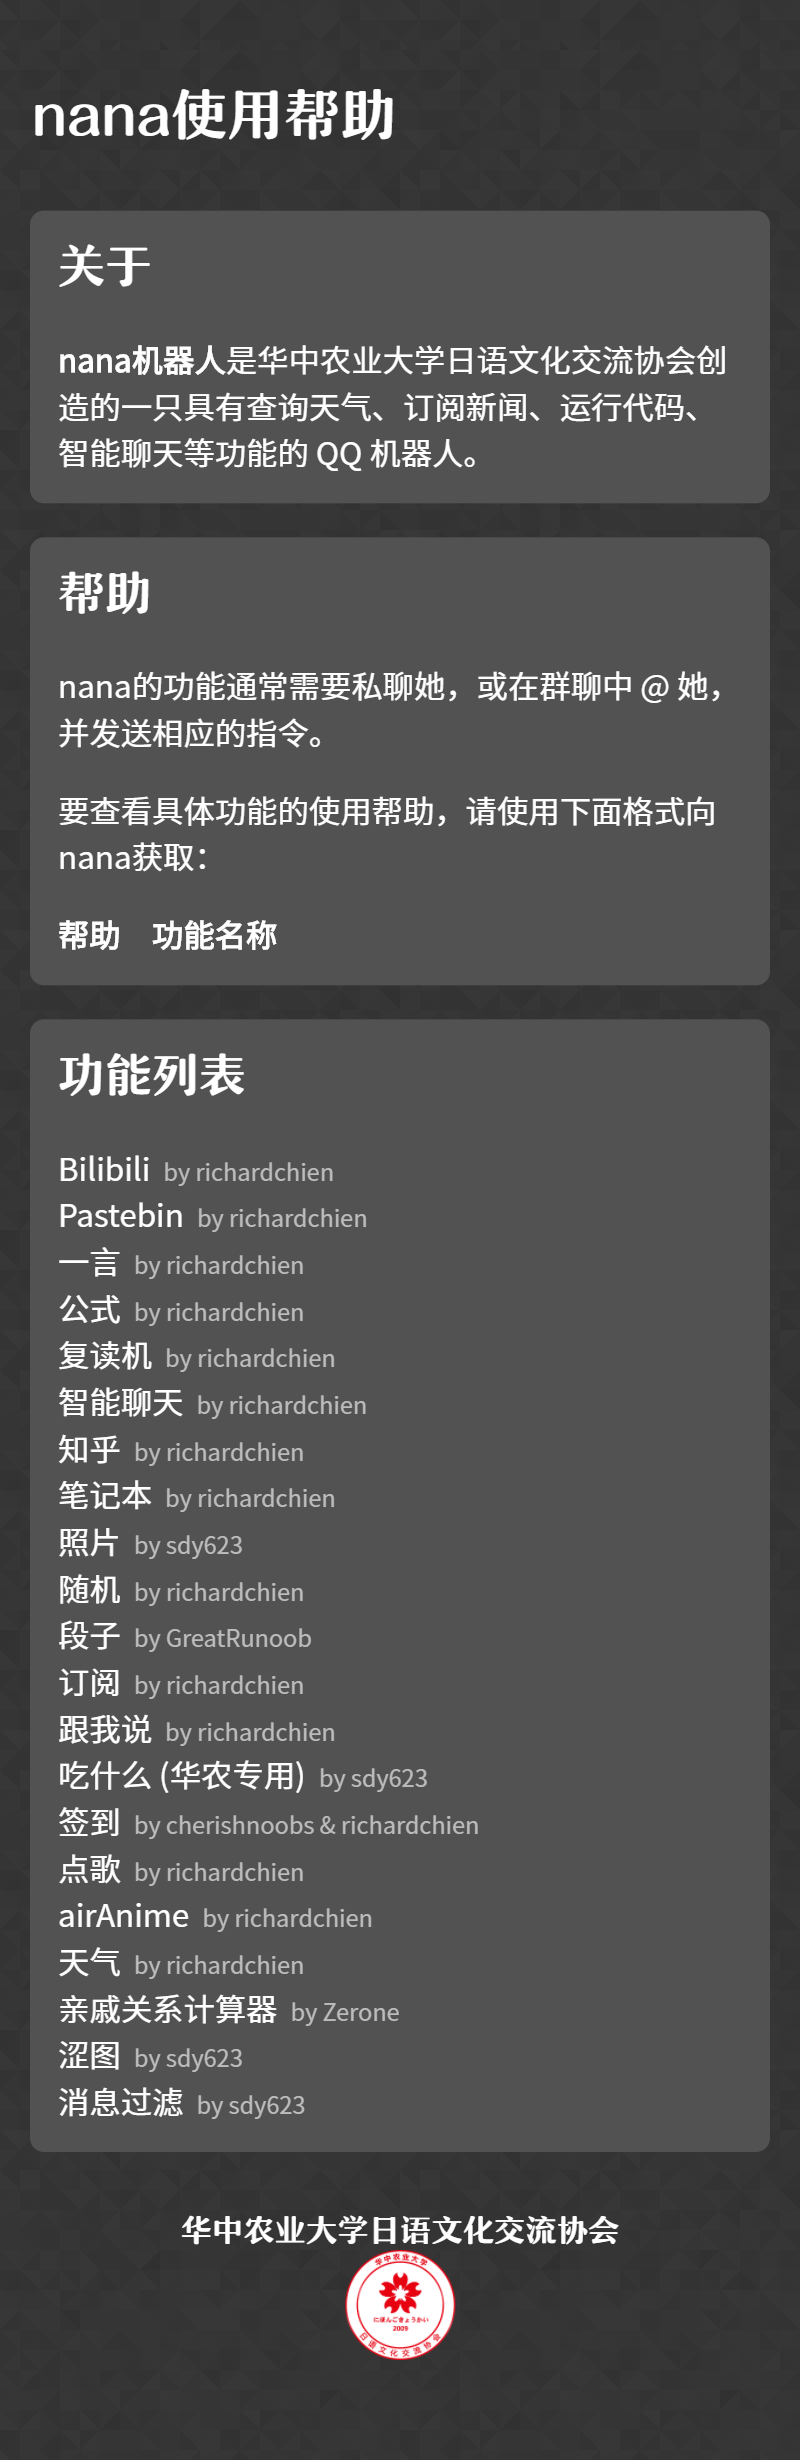
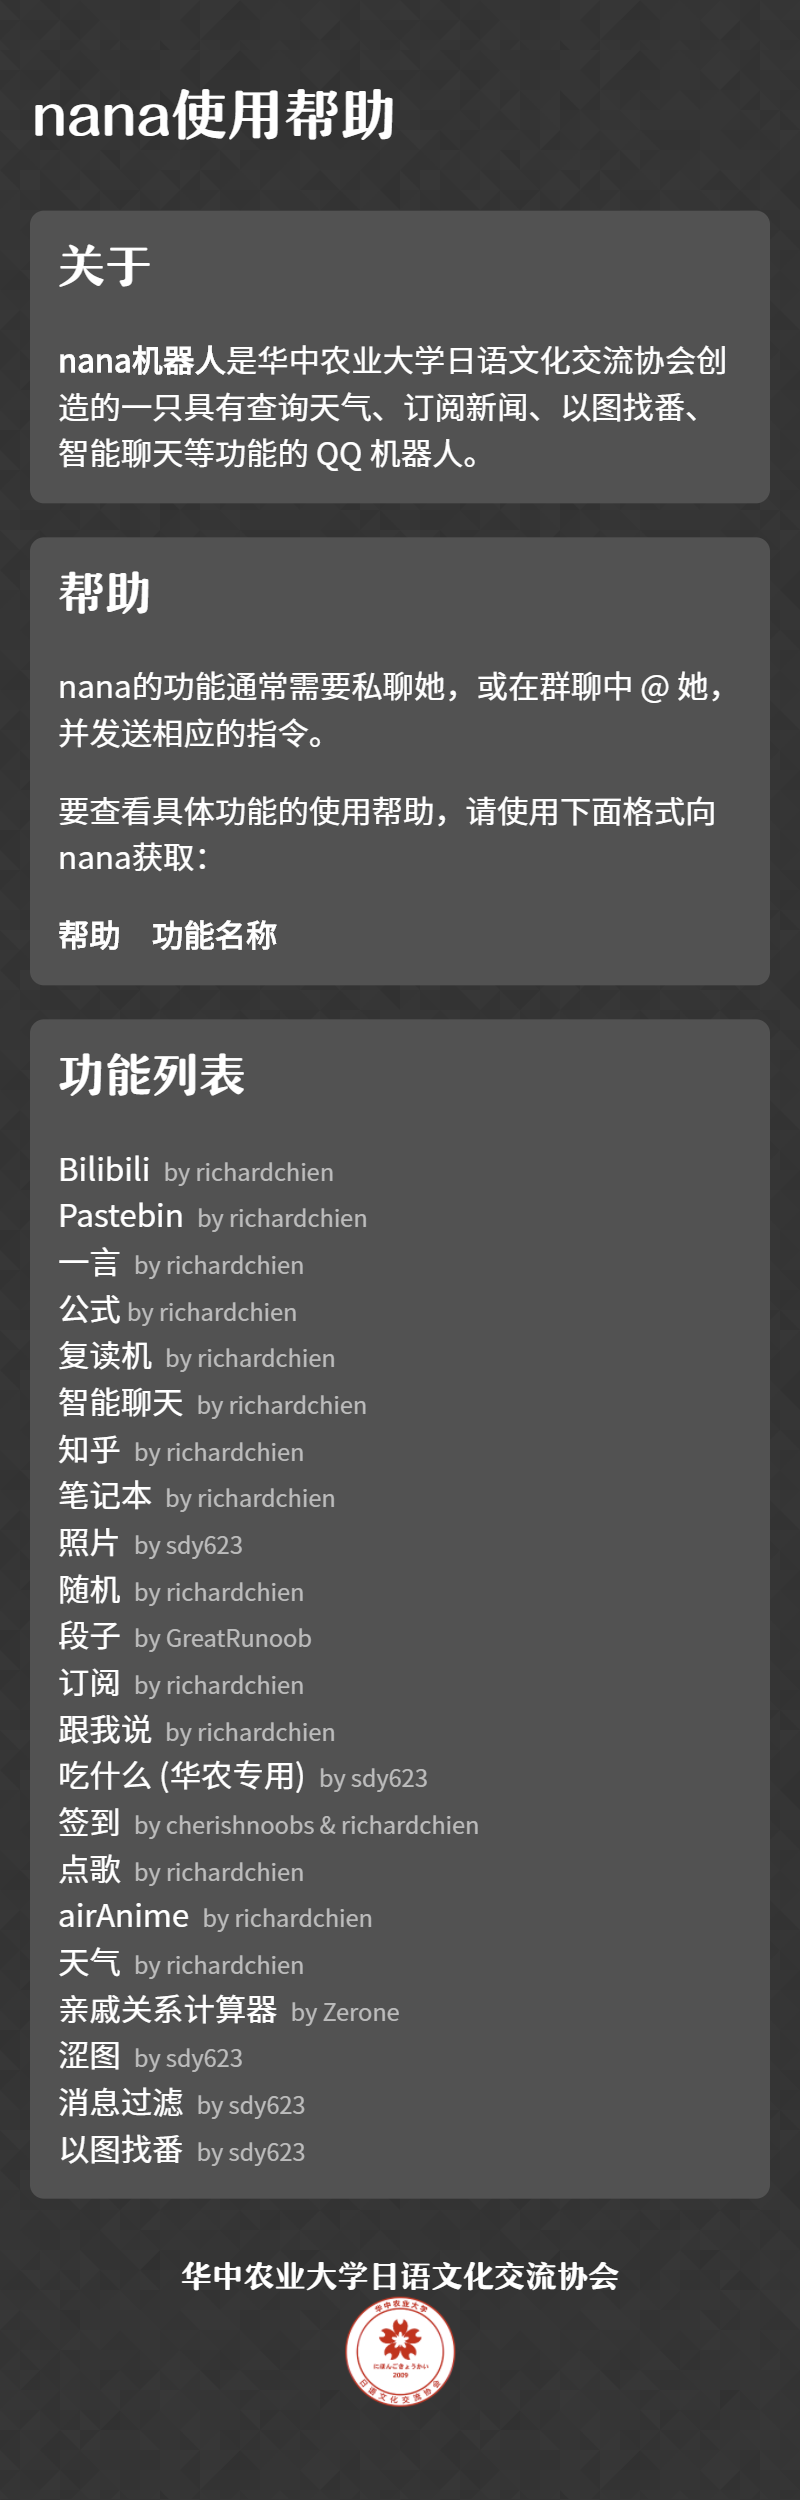
更新了帮助文档

diff --git a/manual/以图找番.html b/manual/以图找番.html
@@ -1,0 +1,76 @@
+<h1>以图找番</h1>
+
+<section>
+  <h2>说明</h2>
+  <p>
+    本功能用于以图片搜索动漫名称。感谢 trace.moe 提供搜索 API。
+  </p>
+</section>
+
+<section>
+  <h2>示例</h2>
+  <div class="bubble-wrapper right">
+    <div class="bubble">
+      <p>
+        以图找番
+      </p>
+    </div>
+  </div>
+  <div class="bubble-wrapper left">
+    <div class="bubble">
+      <p>
+        请发送一张图片<br>
+      </p>
+    </div>
+  </div>
+  <div class="bubble-wrapper right">
+    <div class="bubble">
+      <p>
+        <img src="screenshots/yitusoufan_test.jpg" height="216" width="384"/>
+      </p>
+    </div>
+  </div>
+  <div class="bubble-wrapper left">
+    <div class="bubble">
+      <p>
+        开始以图搜番 <br>
+        (如搜索时间过长或无反应则为图片格式有问题)<br>
+      </p>
+    </div>
+  </div>
+  <div class="bubble-wrapper left">
+    <div class="bubble">
+      <p>
+          <div class="bubble-wrapper left">
+    <div class="bubble">
+      <p>
+        根据所提供的图片按照相似度找到1个结果:<br>
+        ——————————<br> 
+        (1)<br>
+        相似度：183.30%<br> 
+        动漫名：《No Game No Life<br> 
+        时间点：第7集 12分51秒处<br> 
+      </p>
+    </div>
+  </div>  
+      </p>
+    </div>
+  </div>    
+</section>
+
+<section class="bg-color-1">
+  <h2>格式</h2>
+  <p>
+    搜索番剧　番剧关键词
+  </p>
+</section>
+
+<section class="bg-color-2">
+  <h2>命令别名</h2>
+  <p>
+    以图搜番, anime_search, 用图找番, 以图找番, 搜番, 搜动漫
+  </p>
+</section>
+
+<link rel="stylesheet" href="css/style.css">
+<script src="js/genpage.js"></script>

diff --git a/manual/index.html b/manual/index.html
@@ -1,7 +1,7 @@
 <section>
   <h2>关于</h2>
   <p>
-    <b>nana机器人</b>是华中农业大学日语文化交流协会创造的一只具有查询天气、订阅新闻、运行代码、智能聊天等功能的 QQ 机器人。
+    <b>nana机器人</b>是华中农业大学日语文化交流协会创造的一只具有查询天气、订阅新闻、以图找番、智能聊天等功能的 QQ 机器人。
   </p>
 </section>
 
@@ -42,6 +42,8 @@
     <a href="亲戚关系计算器.html" target="_blank">亲戚关系计算器</a> <span class="author">by Zerone</span><br>
     涩图 <span class="author">by sdy623</span><br>
     消息过滤 <span class="author">by sdy623</span><br>
+    以图找番 <span class="author">by sdy623</span><br>
+    <style>a{TEXT-DECORATION:none}</style> 
   </p>
 </section>
 

diff --git a/nana/plugins/animeSearch.py b/nana/plugins/animeSearch.py
@@ -9,7 +9,7 @@ from nana.modules.funcControl import checkSwitch, checkNoob # type: ignore
 
 KEYWORDS=['搜番','搜动漫']
 
-__plugin_name__ = "anime_search"
+__plugin_name__ = "以图搜番"
 
 async def get_bytes(url, headers = None):
     async with ClientSession() as asyncSession:
@@ -59,7 +59,7 @@ def toSimpleString(str):
     return "".join(output_str_list)
 
 
-@on_command('anime_search', aliases = ['以图搜番',*KEYWORDS], only_to_me = False)
+@on_command('anime_search', aliases = ['以图搜番','用图找番','以图找番',*KEYWORDS], only_to_me = False)
 async def AnimeSearch(session: CommandSession):
     user = session.event.user_id
     group = session.event.group_id
